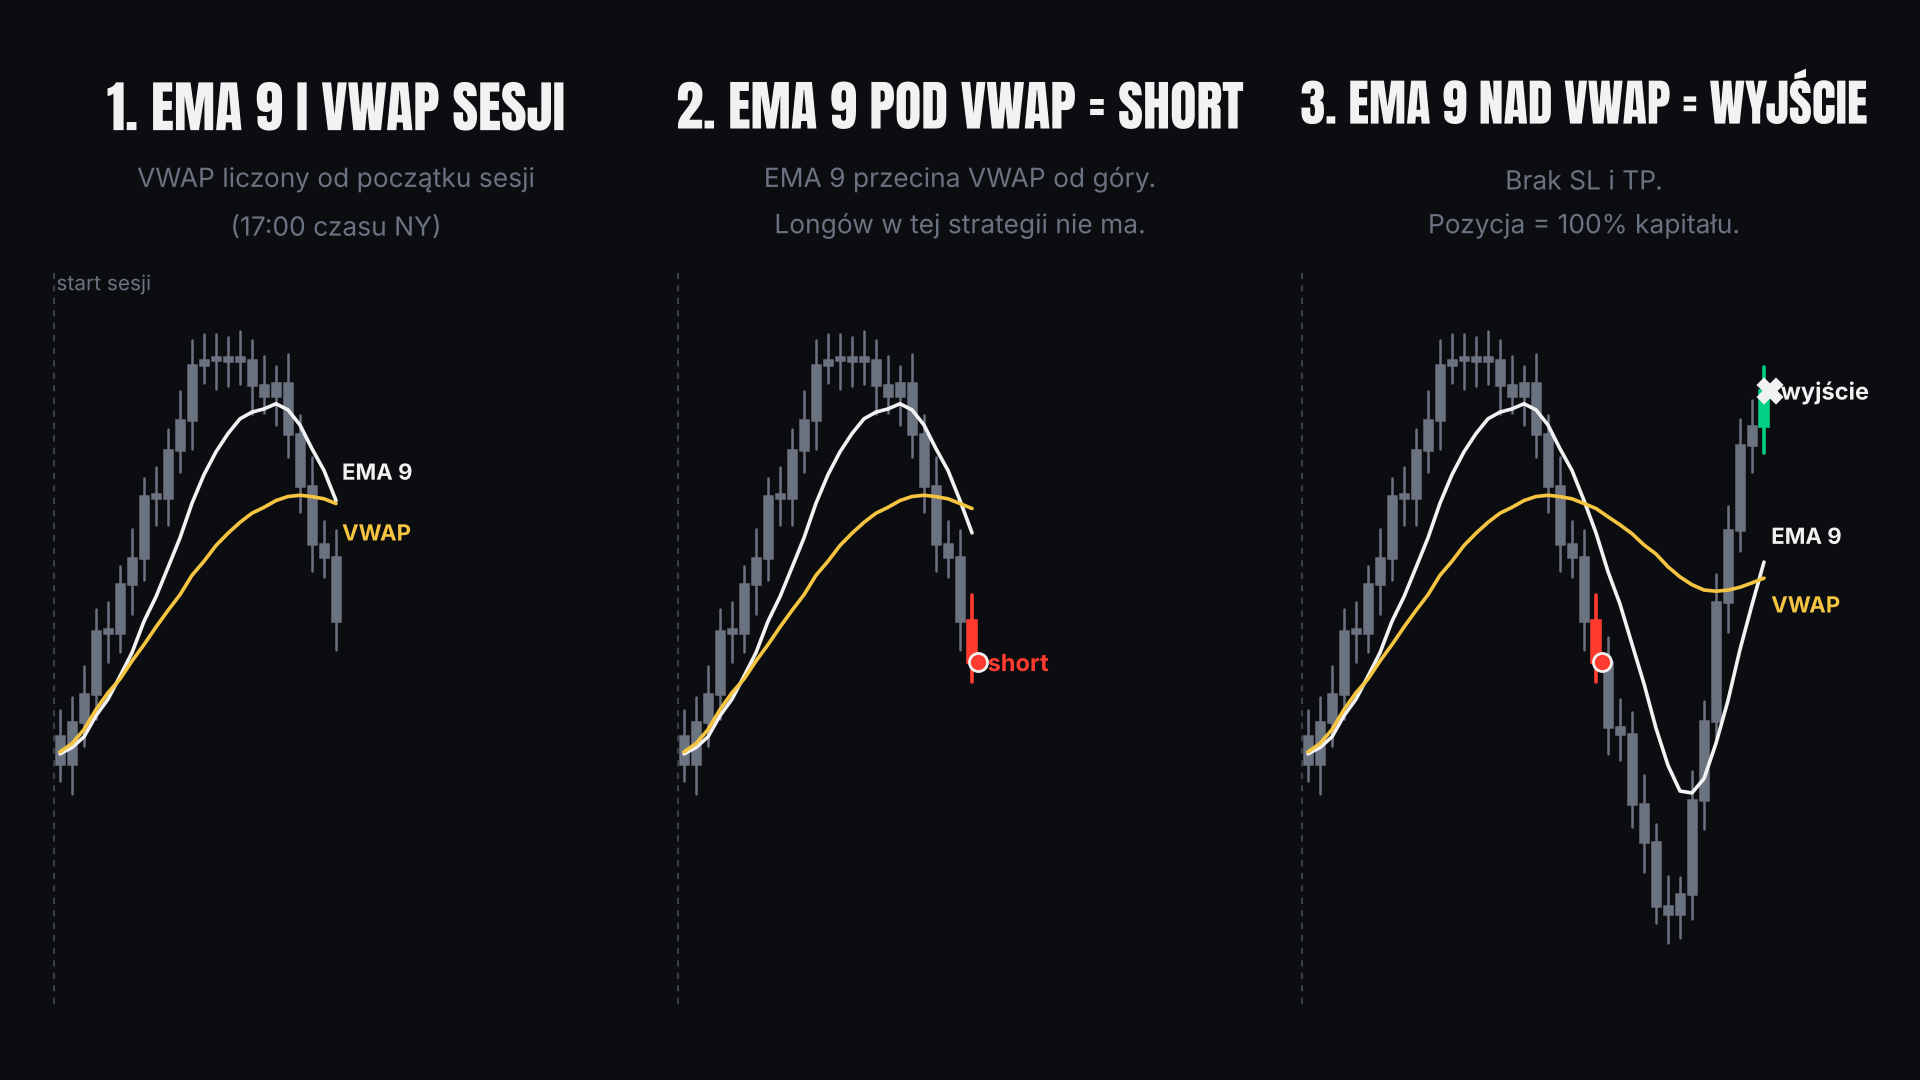
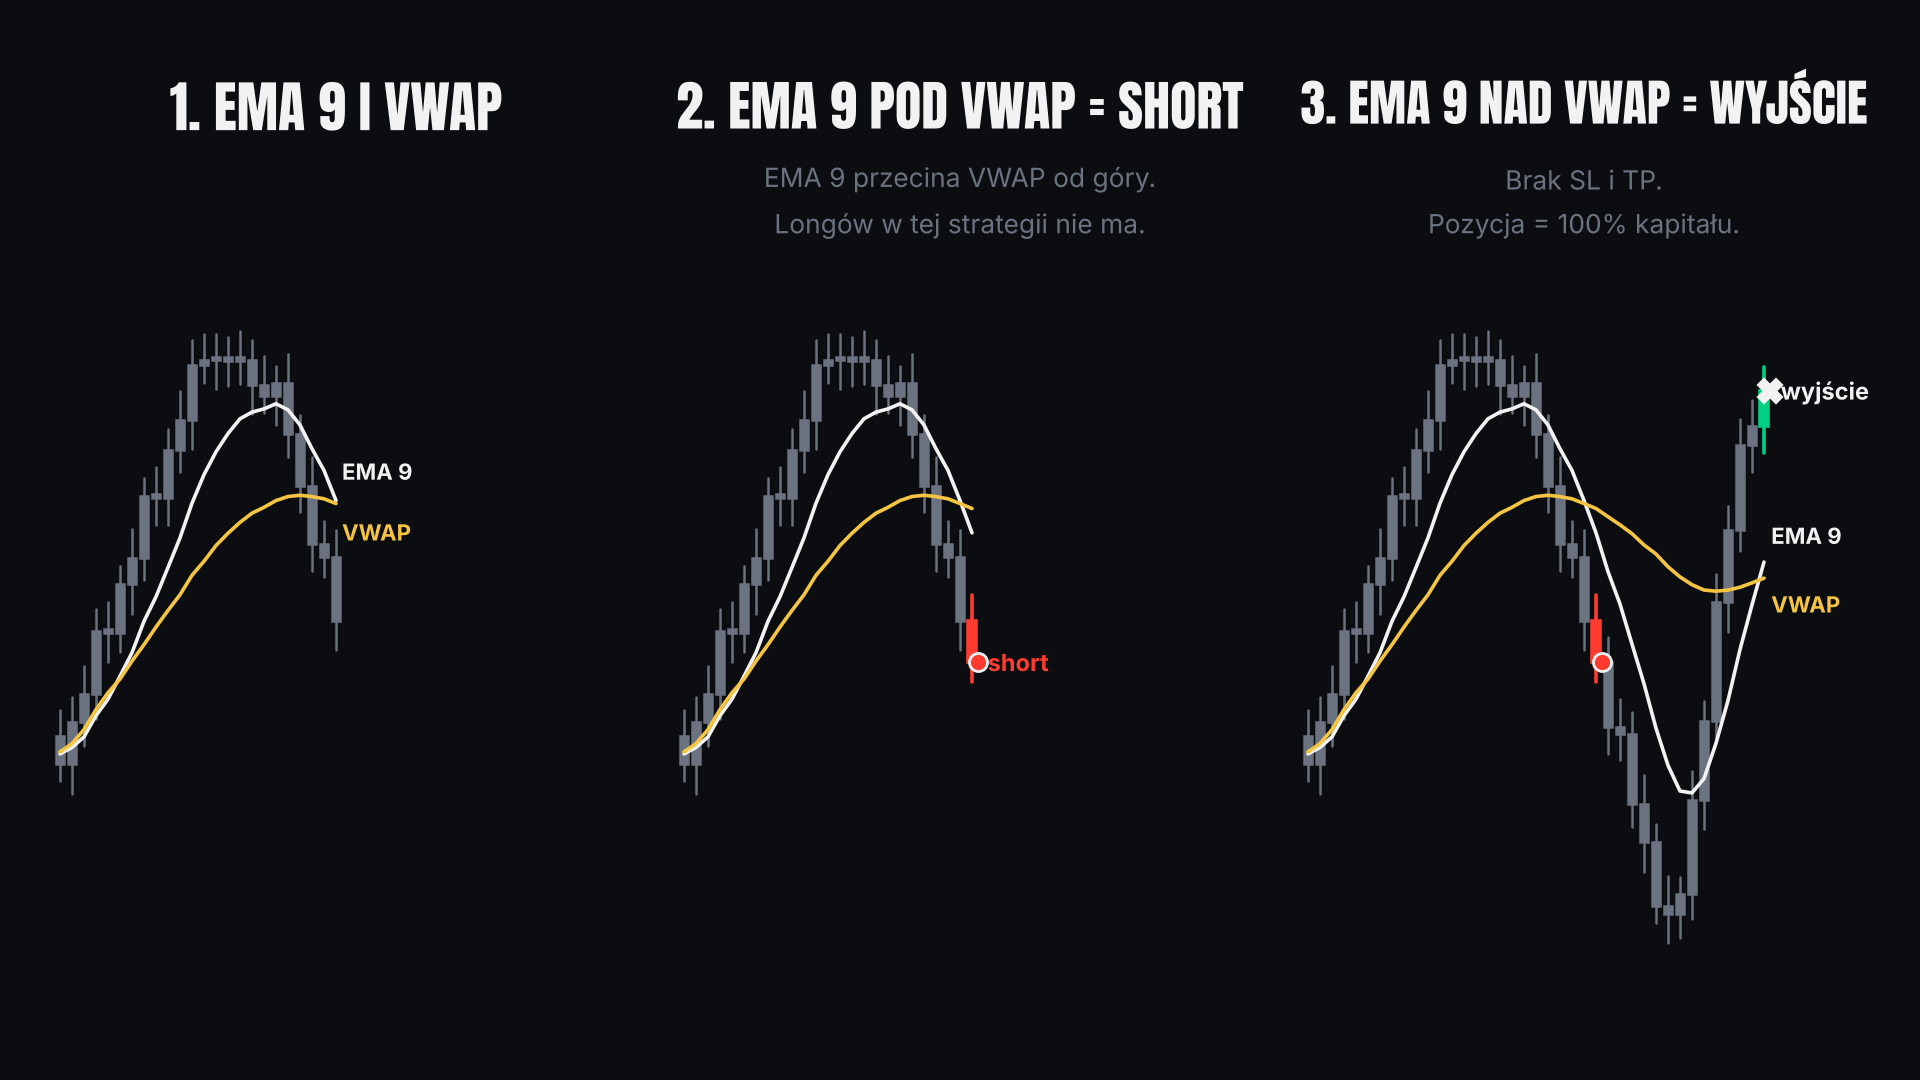
Plansza EMA 9 × VWAP: bez wzmianki o liczeniu VWAP od początku sesji
Claude-Session: https://claude.ai/code/session_01DmSsWBau63wjidTnUSZew8

Changed region(s): [[0.0312, 0.0611, 0.3125, 0.1222], [0.0625, 0.1528, 0.2812, 0.2139], [0.0312, 0.2444, 0.0938, 0.275]]

diff --git a/narzedzia/plansze_objasniajace/tiktok_plansze.py b/narzedzia/plansze_objasniajace/tiktok_plansze.py
@@ -447,17 +447,15 @@ def ema9_vwap():
     lo, hi = ylim_of(B, n, pad=0.1)
 
     def lines(s, upto, lab=False):
-        s.ax.axvline(-0.5, color=DIM, lw=1.5, ls=(0, (3, 3)))
         s.line(e9, upto, FG, lw=2.6, label="EMA 9" if lab else None)
         s.line(vw, upto, YELLOW, lw=2.6, label="VWAP" if lab else None)
 
     fig = figure()
-    s = Seg(fig, 0, "1. EMA 9 I VWAP SESJI", "VWAP liczony od początku sesji\n(17:00 czasu NY)", n, (lo, hi))
+    s = Seg(fig, 0, "1. EMA 9 I VWAP", "", n, (lo, hi))
     s.candles(B, dn)
     lines(s, dn)
     s.ax.text(dn - 0.5, e9[dn - 1] + s.dy * 0.6, "EMA 9", color=FG, fontsize=16, fontweight="bold", va="bottom")
     s.ax.text(dn - 0.5, vw[dn - 1] - s.dy * 0.6, "VWAP", color=YELLOW, fontsize=16, fontweight="bold", va="top")
-    s.ax.text(-0.3, hi, "start sesji", color=GREY, fontsize=15, va="top")
 
     s = Seg(fig, 1, "2. EMA 9 POD VWAP = SHORT", "EMA 9 przecina VWAP od góry.\nLongów w tej strategii nie ma.", n, (lo, hi))
     s.candles(B, dn + 1, {dn: RED})
